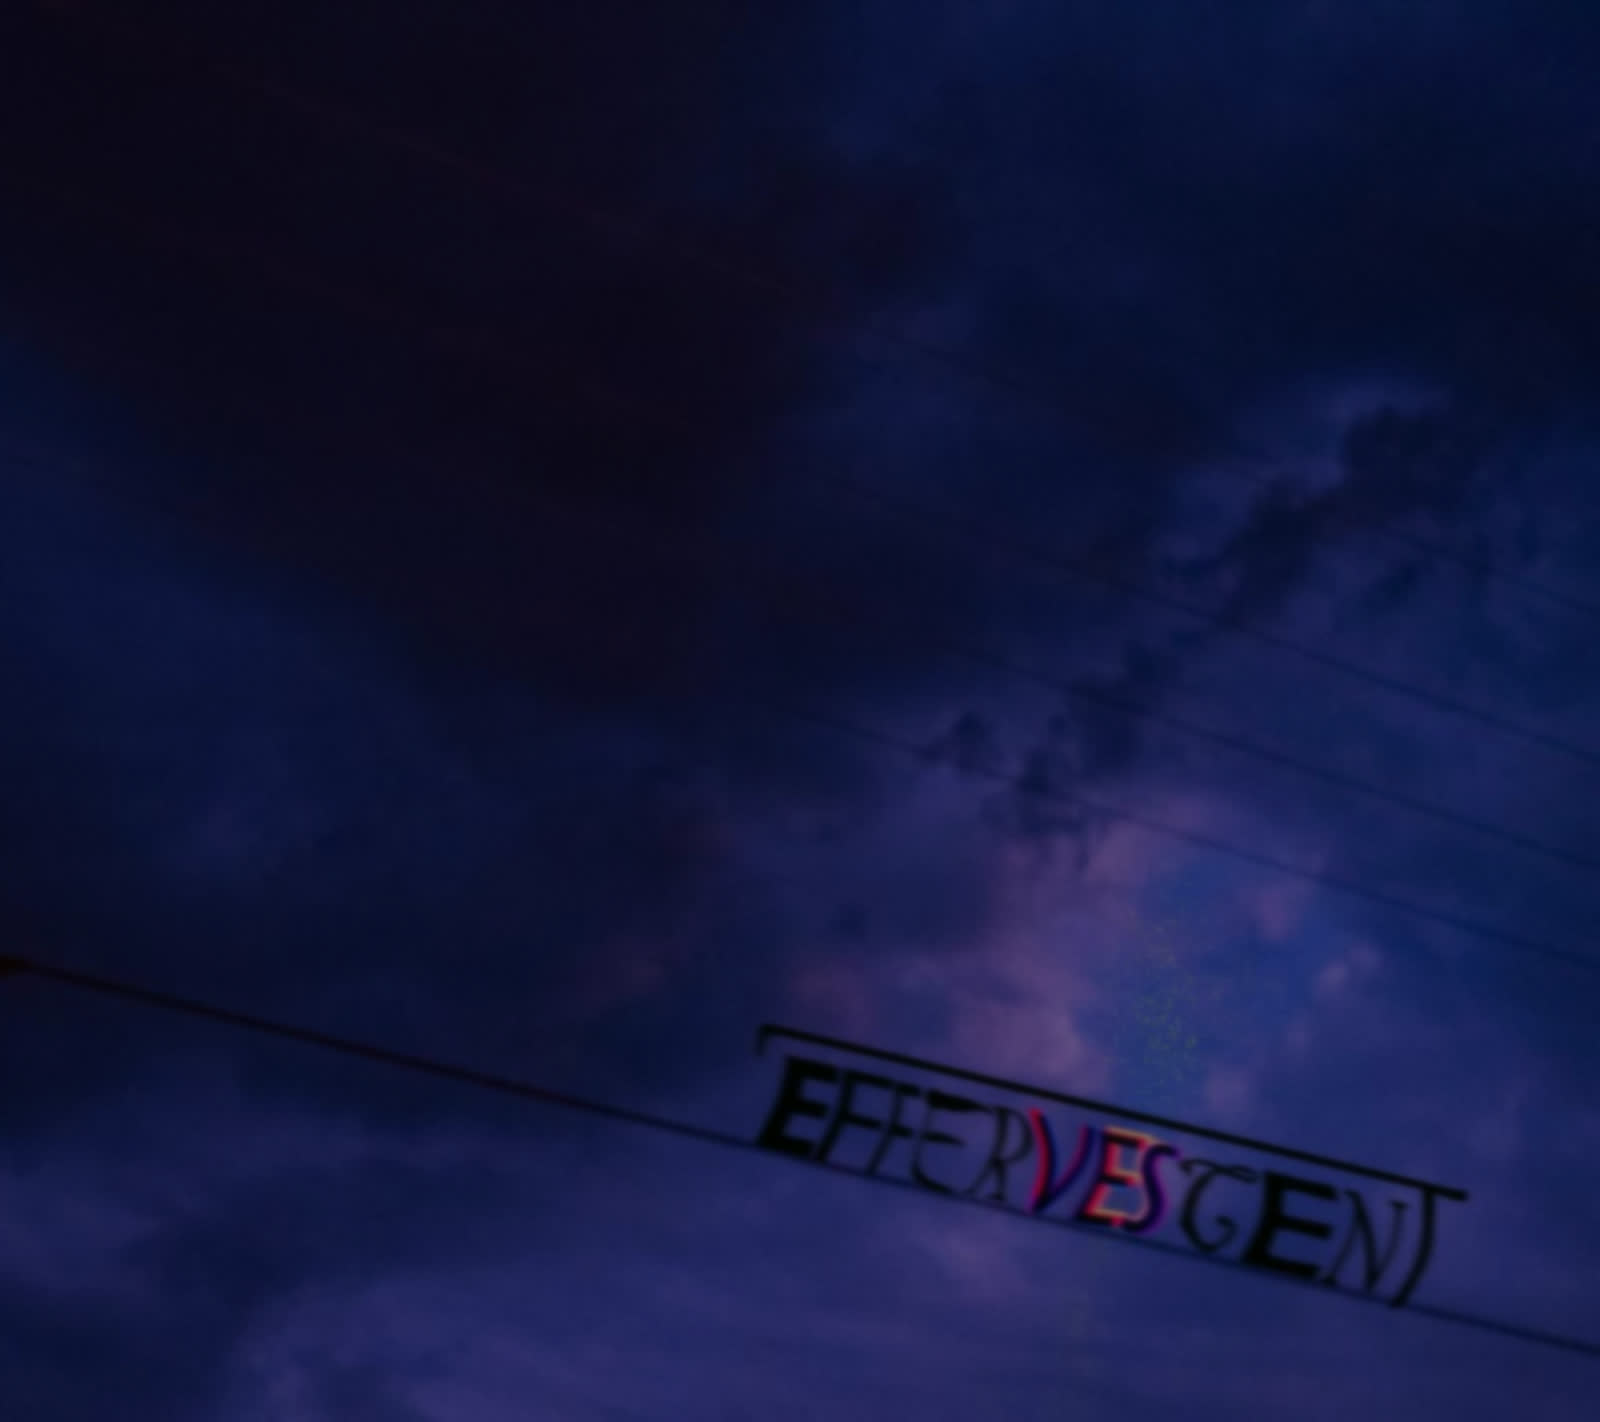
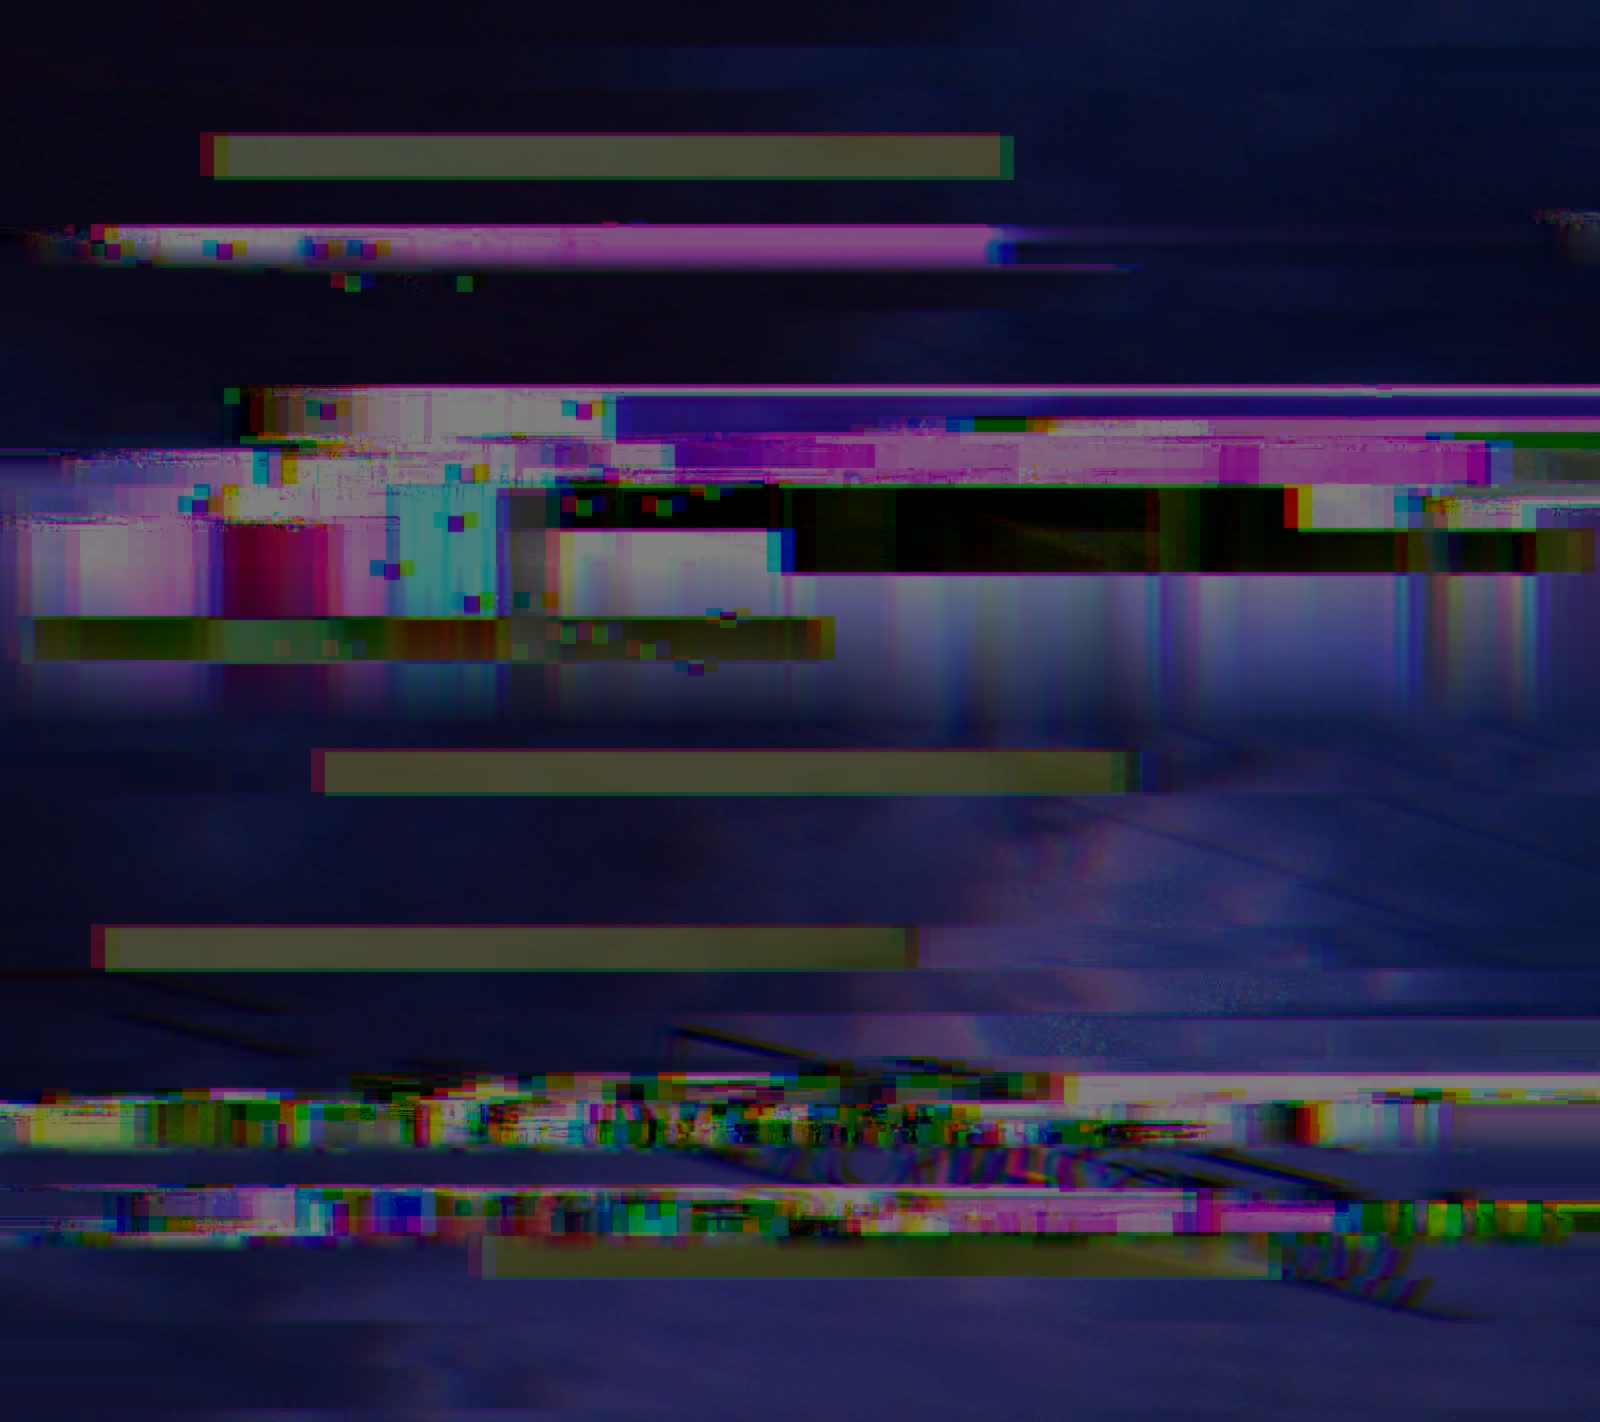
Album backgrounds: datamoshed, with codec breakage, inverted bands and RGB split

diff --git a/docs/assets/css/style.css b/docs/assets/css/style.css
@@ -1104,10 +1104,10 @@ details.hire-cta { display: block; }
 .album-page .hire-cta .hire-btn { color: color-mix(in srgb, var(--album-color, #111) 80%, #000); }
 
 /* Album pages: the cloud background is replaced by a darkened, softened section of that album's own art. */
-.album-bg-quailentime .page-bg { background-image: url("../img/music/bg/quailentime.jpg"); }
-.album-bg-grandpas-clothes-ep .page-bg { background-image: url("../img/music/bg/grandpas-clothes-ep.jpg"); }
-.album-bg-acoldaus .page-bg { background-image: url("../img/music/bg/acoldaus.jpg"); }
-.album-bg-cleft .page-bg { background-image: url("../img/music/bg/cleft.jpg"); }
-.album-bg-effervescent .page-bg { background-image: url("../img/music/bg/effervescent.jpg"); }
-.album-bg-tomorrow-is-only-a-dream-away .page-bg { background-image: url("../img/music/bg/tomorrow-is-only-a-dream-away.jpg"); }
+.album-bg-quailentime .page-bg { background-image: url("../img/music/bg/quailentime.jpg?v=2"); }
+.album-bg-grandpas-clothes-ep .page-bg { background-image: url("../img/music/bg/grandpas-clothes-ep.jpg?v=2"); }
+.album-bg-acoldaus .page-bg { background-image: url("../img/music/bg/acoldaus.jpg?v=2"); }
+.album-bg-cleft .page-bg { background-image: url("../img/music/bg/cleft.jpg?v=2"); }
+.album-bg-effervescent .page-bg { background-image: url("../img/music/bg/effervescent.jpg?v=2"); }
+.album-bg-tomorrow-is-only-a-dream-away .page-bg { background-image: url("../img/music/bg/tomorrow-is-only-a-dream-away.jpg?v=2"); }
 [class*="album-bg-"] { --bg: #07090d; background-color: #07090d; }

diff --git a/docs/listen/index.html b/docs/listen/index.html
@@ -12,7 +12,7 @@
   <link rel="preconnect" href="https://fonts.googleapis.com">
   <link rel="preconnect" href="https://fonts.gstatic.com" crossorigin>
   <link href="https://fonts.googleapis.com/css2?family=Poppins:wght@500&display=swap" rel="stylesheet">
-  <link rel="stylesheet" href="/assets/css/style.css?v=20261111q">
+  <link rel="stylesheet" href="/assets/css/style.css?v=20261111r">
 </head>
 <body class="bj-shell">
   <!-- The site runs in this frame; the player bar below keeps playing while you move between pages. -->

diff --git a/docs/about/index.html b/docs/about/index.html
@@ -33,7 +33,7 @@
   <link rel="icon" href="/icon-192.png" type="image/png" sizes="192x192">
   <link rel="apple-touch-icon" href="/apple-touch-icon.png">
   <link rel="manifest" href="/site.webmanifest">
-  <link rel="stylesheet" href="/assets/css/style.css?v=20261111q">
+  <link rel="stylesheet" href="/assets/css/style.css?v=20261111r">
   <!-- structured-data:start -->
   <script type="application/ld+json">
 {

diff --git a/docs/articles/balatros-polyrhythmic-and-polychrome/index.html b/docs/articles/balatros-polyrhythmic-and-polychrome/index.html
@@ -30,7 +30,7 @@
   <link rel="icon" href="/icon-192.png" type="image/png" sizes="192x192">
   <link rel="apple-touch-icon" href="/apple-touch-icon.png">
   <link rel="manifest" href="/site.webmanifest">
-  <link rel="stylesheet" href="/assets/css/style.css?v=20261111q">
+  <link rel="stylesheet" href="/assets/css/style.css?v=20261111r">
   <!-- structured-data:start -->
   <script type="application/ld+json">
 {

diff --git a/docs/articles/going-outside-the-norm-by-scoring/index.html b/docs/articles/going-outside-the-norm-by-scoring/index.html
@@ -30,7 +30,7 @@
   <link rel="icon" href="/icon-192.png" type="image/png" sizes="192x192">
   <link rel="apple-touch-icon" href="/apple-touch-icon.png">
   <link rel="manifest" href="/site.webmanifest">
-  <link rel="stylesheet" href="/assets/css/style.css?v=20261111q">
+  <link rel="stylesheet" href="/assets/css/style.css?v=20261111r">
   <!-- structured-data:start -->
   <script type="application/ld+json">
 {

diff --git a/docs/articles/how-skyrims-score-has-cast-a-cathartic/index.html b/docs/articles/how-skyrims-score-has-cast-a-cathartic/index.html
@@ -30,7 +30,7 @@
   <link rel="icon" href="/icon-192.png" type="image/png" sizes="192x192">
   <link rel="apple-touch-icon" href="/apple-touch-icon.png">
   <link rel="manifest" href="/site.webmanifest">
-  <link rel="stylesheet" href="/assets/css/style.css?v=20261111q">
+  <link rel="stylesheet" href="/assets/css/style.css?v=20261111r">
   <!-- structured-data:start -->
   <script type="application/ld+json">
 {

diff --git a/docs/articles/index.html b/docs/articles/index.html
@@ -33,7 +33,7 @@
   <link rel="icon" href="/icon-192.png" type="image/png" sizes="192x192">
   <link rel="apple-touch-icon" href="/apple-touch-icon.png">
   <link rel="manifest" href="/site.webmanifest">
-  <link rel="stylesheet" href="/assets/css/style.css?v=20261111q">
+  <link rel="stylesheet" href="/assets/css/style.css?v=20261111r">
   <!-- structured-data:start -->
   <script type="application/ld+json">
 {

diff --git a/docs/contact/index.html b/docs/contact/index.html
@@ -33,7 +33,7 @@
   <link rel="icon" href="/icon-192.png" type="image/png" sizes="192x192">
   <link rel="apple-touch-icon" href="/apple-touch-icon.png">
   <link rel="manifest" href="/site.webmanifest">
-  <link rel="stylesheet" href="/assets/css/style.css?v=20261111q">
+  <link rel="stylesheet" href="/assets/css/style.css?v=20261111r">
   <!-- structured-data:start -->
   <script type="application/ld+json">
 {

diff --git a/docs/index.html b/docs/index.html
@@ -33,7 +33,7 @@
   <link rel="icon" href="/icon-192.png" type="image/png" sizes="192x192">
   <link rel="apple-touch-icon" href="/apple-touch-icon.png">
   <link rel="manifest" href="/site.webmanifest">
-  <link rel="stylesheet" href="/assets/css/style.css?v=20261111q">
+  <link rel="stylesheet" href="/assets/css/style.css?v=20261111r">
   <!-- structured-data:start -->
   <script type="application/ld+json">
 {

diff --git a/docs/music/acoldaus/index.html b/docs/music/acoldaus/index.html
@@ -30,7 +30,7 @@
   <link rel="icon" href="/icon-192.png" type="image/png" sizes="192x192">
   <link rel="apple-touch-icon" href="/apple-touch-icon.png">
   <link rel="manifest" href="/site.webmanifest">
-  <link rel="stylesheet" href="/assets/css/style.css?v=20261111q">
+  <link rel="stylesheet" href="/assets/css/style.css?v=20261111r">
   <!-- structured-data:start -->
   <script type="application/ld+json">
 {

diff --git a/docs/music/cleft/index.html b/docs/music/cleft/index.html
@@ -30,7 +30,7 @@
   <link rel="icon" href="/icon-192.png" type="image/png" sizes="192x192">
   <link rel="apple-touch-icon" href="/apple-touch-icon.png">
   <link rel="manifest" href="/site.webmanifest">
-  <link rel="stylesheet" href="/assets/css/style.css?v=20261111q">
+  <link rel="stylesheet" href="/assets/css/style.css?v=20261111r">
   <!-- structured-data:start -->
   <script type="application/ld+json">
 {

diff --git a/docs/music/effervescent/index.html b/docs/music/effervescent/index.html
@@ -30,7 +30,7 @@
   <link rel="icon" href="/icon-192.png" type="image/png" sizes="192x192">
   <link rel="apple-touch-icon" href="/apple-touch-icon.png">
   <link rel="manifest" href="/site.webmanifest">
-  <link rel="stylesheet" href="/assets/css/style.css?v=20261111q">
+  <link rel="stylesheet" href="/assets/css/style.css?v=20261111r">
   <!-- structured-data:start -->
   <script type="application/ld+json">
 {
